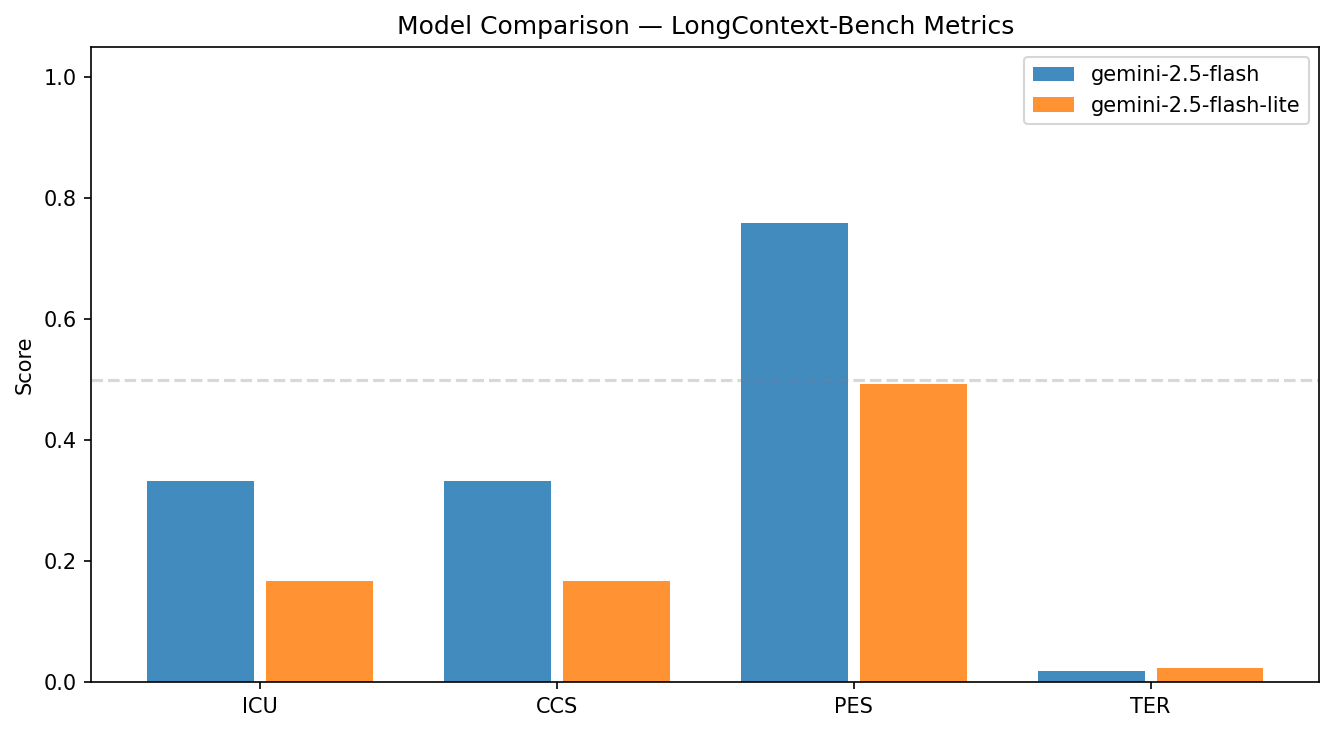
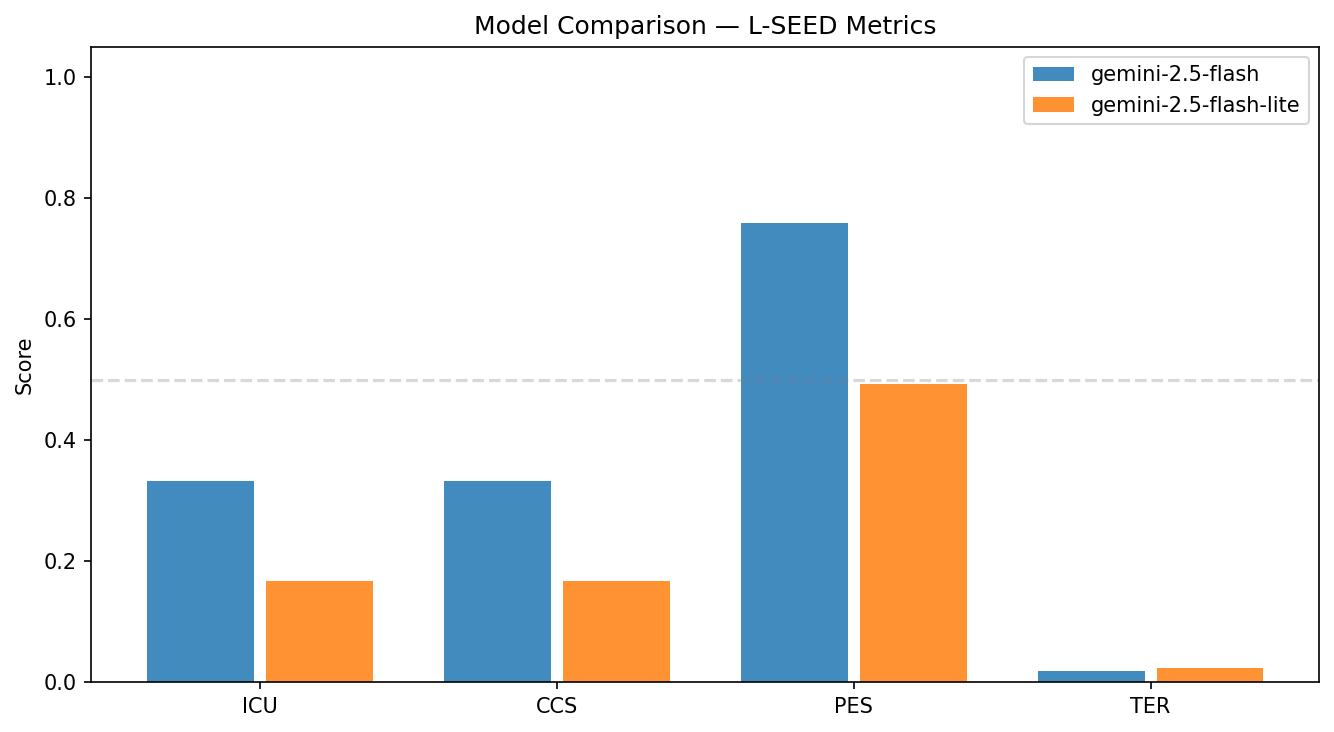
L-SEED: Name Finalization, always wanted something cool

Changed region(s): [[0.3073, 0.0, 0.7684, 0.0601]]

diff --git a/codegen/run_codegen.py b/codegen/run_codegen.py
@@ -7,7 +7,7 @@ Usage:
     python codegen/run_codegen.py --tasks flask-001 gin-002  # specific tasks
 
 After generation:
-    cd ../gemini-cli && npx tsc --noEmit evals/longcontext/*.eval.ts
+    cd ../gemini-cli && npx tsc --noEmit evals/l-seed/*.eval.ts
 """
 
 from __future__ import annotations
@@ -55,11 +55,11 @@ def main() -> None:
     if generated and not args.dry_run:
         cli = Path(args.gemini_cli)
         print(f'\nType-check:')
-        print(f'  cd {cli} && npx tsc --noEmit evals/longcontext/*.eval.ts')
+        print(f'  cd {cli} && npx tsc --noEmit evals/l-seed/*.eval.ts')
         print(f'\nRun single task:')
         print(f'  cd {cli} && RUN_EVALS=1 GEMINI_MODEL=gemini-2.5-flash \\')
-        print(f'    LC_BENCH_LOG=../longcontext-bench/data/results/run1.jsonl \\')
-        print(f'    npx vitest run evals/longcontext/flask-001.eval.ts')
+        print(f'    L_SEED_LOG=../<l-seed-repo>/data/results/run1.jsonl \\')
+        print(f'    npx vitest run evals/l-seed/flask-001.eval.ts')
 
 
 if __name__ == '__main__':

diff --git a/analysis/reporter.py b/analysis/reporter.py
@@ -44,7 +44,7 @@ def generate_report(analysis: dict, output_path: Path) -> str:
     task_mets  = analysis.get("task_metrics", {})
 
     lines = [
-        f"# LongContext-Bench: {model} Evaluation Report",
+        f"# L-SEED: {model} Evaluation Report",
         f"\n**Run date:** {run_date}  |  **Tasks:** {n}  |  "
         f"**Pass rate:** {_pct(pass_rate)}",
         "",
@@ -152,7 +152,7 @@ def generate_report(analysis: dict, output_path: Path) -> str:
         "",
         "---",
         "",
-        f"_Generated by LongContext-Bench reporter on "
+        f"_Generated by L-SEED reporter on "
         f"{datetime.utcnow().strftime('%Y-%m-%d %H:%M UTC')}_",
     ]
 
@@ -166,7 +166,7 @@ def generate_report(analysis: dict, output_path: Path) -> str:
 def generate_comparison_report(comparison: dict, output_path: Path) -> str:
     models = comparison.get("models", [])
     lines = [
-        "# LongContext-Bench: Model Comparison",
+        "# L-SEED: Model Comparison",
         f"\n_Generated: {comparison.get('generated', 'unknown')}_",
         "",
         "| Model | Pass% | ICU | CCS | PES | TER | ICU Gap |",

diff --git a/analysis/visualizer.py b/analysis/visualizer.py
@@ -1,7 +1,7 @@
 """
 analysis/visualizer.py
 
-Produces figures from LongContext-Bench analysis JSON files.
+Produces figures from L-SEED analysis JSON files.
 
 Requires: matplotlib, seaborn, numpy.
 
@@ -212,7 +212,7 @@ def plot_model_comparison(analyses: list[dict], output_dir: Path) -> None:
     ax.set_xticklabels(labels)
     ax.set_ylim(0, 1.05)
     ax.set_ylabel("Score")
-    ax.set_title("Model Comparison — LongContext-Bench Metrics")
+    ax.set_title("Model Comparison — L-SEED Metrics")
     ax.legend()
     ax.axhline(y=0.5, color="gray", linestyle="--", alpha=0.3)
 

diff --git a/analysis/metrics.py b/analysis/metrics.py
@@ -1,5 +1,5 @@
 """
-Metrics for LongContext-Bench evaluation runs.
+Metrics for L-SEED evaluation runs.
 
 Task-level metrics:
   CFRD, RFS, IRR

diff --git a/codegen/eval_generator.py b/codegen/eval_generator.py
@@ -231,7 +231,7 @@ class EvalGenerator:
     def __init__(self, gemini_cli_path: str | Path, repo_base: str | Path):
         self.gemini_cli_path = Path(gemini_cli_path)
         self.repo_base = Path(repo_base)
-        self.output_dir = self.gemini_cli_path / 'evals' / 'longcontext'
+        self.output_dir = self.gemini_cli_path / 'evals' / 'l-seed'
 
         template_dir = Path(__file__).parent / 'templates'
         self._env = _make_env(template_dir)

diff --git a/extraction/task_validator.py b/extraction/task_validator.py
@@ -221,7 +221,7 @@ def validate_task(task_path: Path, strict: bool = False) -> bool:
 
 def main() -> None:
     parser = argparse.ArgumentParser(
-        description="Validate task JSON records for LongContext-Bench"
+        description="Validate task JSON records for L-SEED"
     )
     parser.add_argument("paths", nargs="+", help="Task JSON file(s) to validate")
     parser.add_argument("--strict", action="store_true",

diff --git a/docs/CODEGEN_AND_EVAL.md b/docs/CODEGEN_AND_EVAL.md
@@ -20,7 +20,7 @@ flowchart TD
     D --> E[optional symbol guided extraction]
     C --> F[Jinja render]
     E --> F
-    F --> G[write evals/longcontext/<task_id>.eval.ts]
+    F --> G[write evals/l-seed/<task_id>.eval.ts]
 ```
 
 ## File Loading Semantics
@@ -85,14 +85,14 @@ python3 codegen/run_codegen.py --dry-run
 By default generated files go to:
 
 ```text
-../gemini-cli/evals/longcontext/<task_id>.eval.ts
+../gemini-cli/evals/l-seed/<task_id>.eval.ts
 ```
 
 ## Type Check and Run
 
 ```bash
 cd ../gemini-cli
-npx tsc --noEmit evals/longcontext/*.eval.ts
+npx tsc --noEmit evals/l-seed/*.eval.ts
 ```
 
 Single eval run example:
@@ -100,8 +100,8 @@ Single eval run example:
 ```bash
 cd ../gemini-cli
 RUN_EVALS=1 GEMINI_MODEL=gemini-2.5-flash \
-LC_BENCH_LOG=../longcontext-bench/data/results/run1.jsonl \
-npx vitest run evals/longcontext/flask-001.eval.ts
+L_SEED_LOG=../<l-seed-repo>/data/results/run1.jsonl \
+npx vitest run evals/l-seed/flask-001.eval.ts
 ```
 
 ## Practical Notes

diff --git a/docs/OPERATIONS.md b/docs/OPERATIONS.md
@@ -63,15 +63,15 @@ python3 codegen/run_codegen.py --tasks flask-001 --gemini-cli ../gemini-cli
 
 Checkpoint:
 
-- eval file created in `../gemini-cli/evals/longcontext/`
+- eval file created in `../gemini-cli/evals/l-seed/`
 
 ## E) Run Evals
 
 ```bash
 cd ../gemini-cli
 RUN_EVALS=1 GEMINI_MODEL=<model> \
-LC_BENCH_LOG=../longcontext-bench/data/results/<model>/<date>_run.jsonl \
-npx vitest run evals/longcontext/*.eval.ts
+L_SEED_LOG=../<l-seed-repo>/data/results/<model>/<date>_run.jsonl \
+npx vitest run evals/l-seed/*.eval.ts
 ```
 
 Checkpoint:
@@ -81,7 +81,7 @@ Checkpoint:
 ## F) Analyze
 
 ```bash
-cd ../longcontext-bench
+cd ../<l-seed-repo>
 python3 analysis/aggregator.py \
   --input data/results/<model>/<date>_run.jsonl \
   --tasks data/tasks/validated \

diff --git a/README.md b/README.md
@@ -1,4 +1,4 @@
-# LongContext Bench Documentation
+# L-SEED Documentation
 
 This repo is a prototype that defines a long context coding benchmark pipeline for Gemini CLI evaluation.
 
@@ -82,7 +82,7 @@ Generated analysis artifacts:
 ## Repository Structure
 
 ```text
-longcontext-bench/
+l-seed/
 ├── requirements.txt                          # Python dependencies
 ├── analysis/                                 # Evaluation metrics, aggregation, reporting, plotting
 │   ├── aggregator.py                         # Builds analysis JSON from JSONL run logs

diff --git a/data/results/gemini-2.5-flash-lite/2026-03-31_report.md b/data/results/gemini-2.5-flash-lite/2026-03-31_report.md
@@ -1,4 +1,4 @@
-# LongContext-Bench: gemini-2.5-flash-lite Evaluation Report
+# L-SEED: gemini-2.5-flash-lite Evaluation Report
 
 **Run date:** 2026-03-31  |  **Tasks:** 6  |  **Pass rate:** 0.0%
 
@@ -70,4 +70,4 @@ _These measure task difficulty, not agent performance._
 
 ---
 
-_Generated by LongContext-Bench reporter on 2026-03-31 16:36 UTC_
+_Generated by L-SEED reporter on 2026-04-11 01:34 UTC_

diff --git a/data/results/gemini-2.5-flash/2026-03-31_report.md b/data/results/gemini-2.5-flash/2026-03-31_report.md
@@ -1,4 +1,4 @@
-# LongContext-Bench: gemini-2.5-flash Evaluation Report
+# L-SEED: gemini-2.5-flash Evaluation Report
 
 **Run date:** 2026-03-31  |  **Tasks:** 3  |  **Pass rate:** 0.0%
 
@@ -65,4 +65,4 @@ _These measure task difficulty, not agent performance._
 
 ---
 
-_Generated by LongContext-Bench reporter on 2026-03-31 16:36 UTC_
+_Generated by L-SEED reporter on 2026-04-11 01:34 UTC_

diff --git a/data/results/comparison/report.md b/data/results/comparison/report.md
@@ -1,4 +1,4 @@
-# LongContext-Bench: Model Comparison
+# L-SEED: Model Comparison
 
 _Generated: 2026-03-31T16:36:41.701010_
 